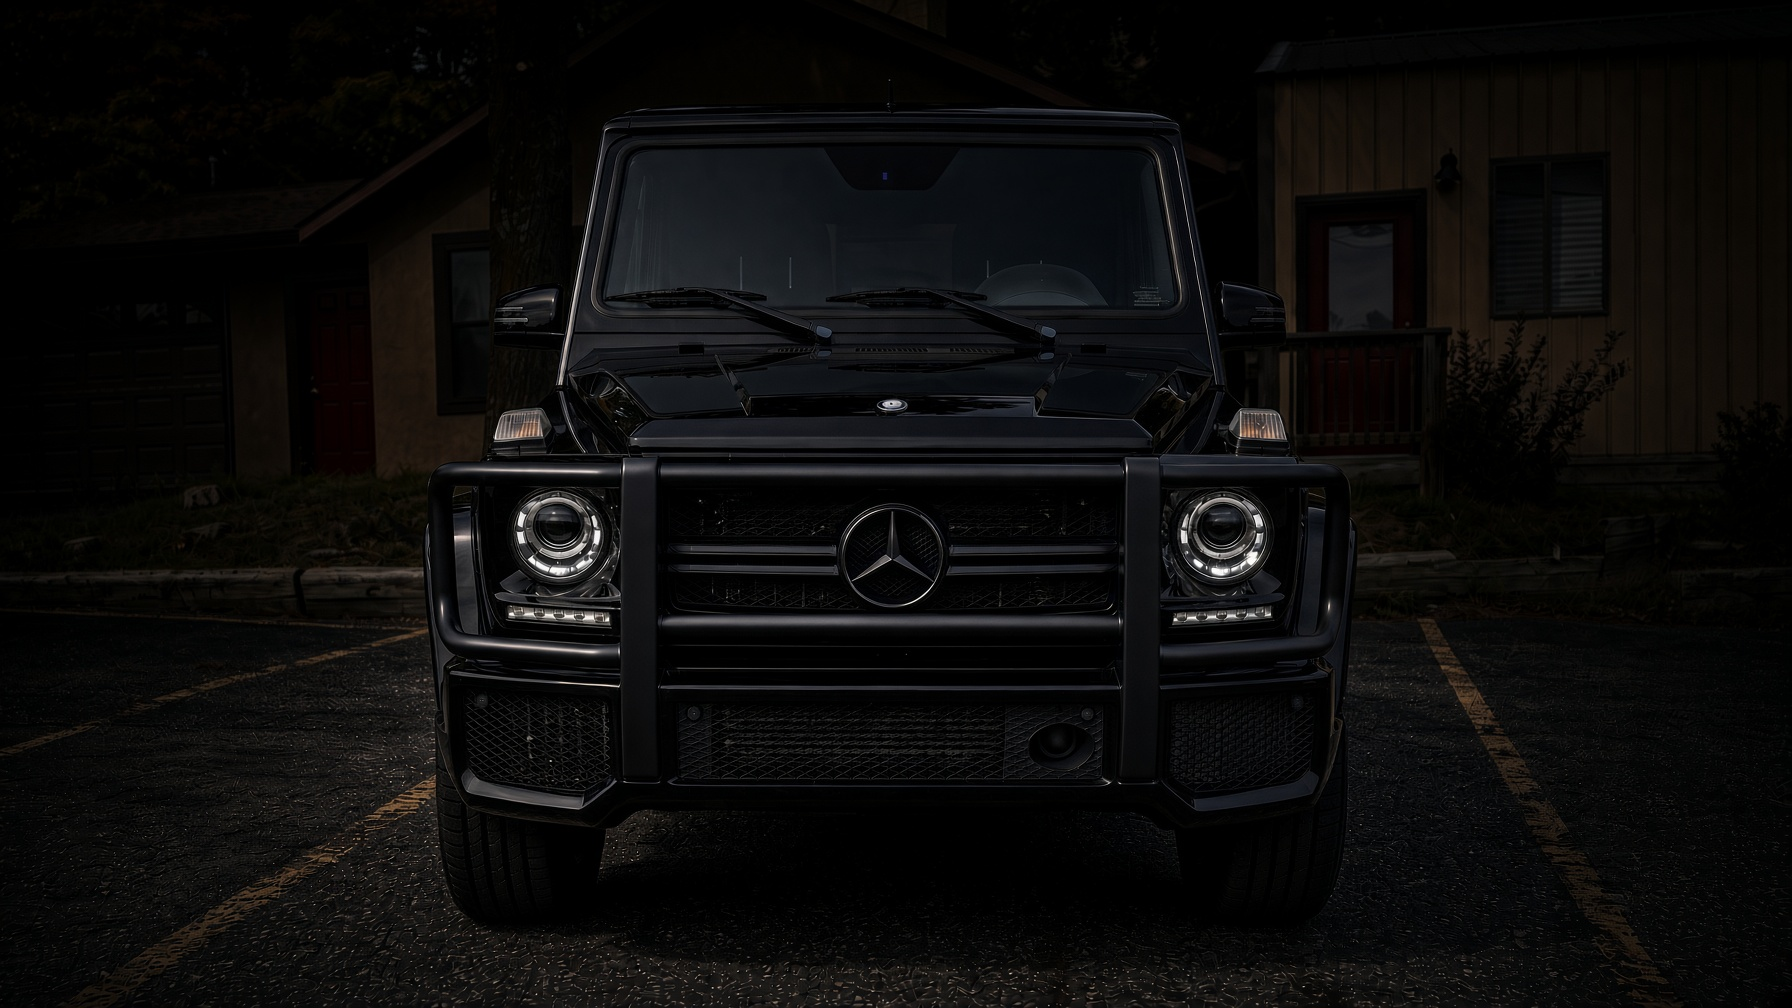
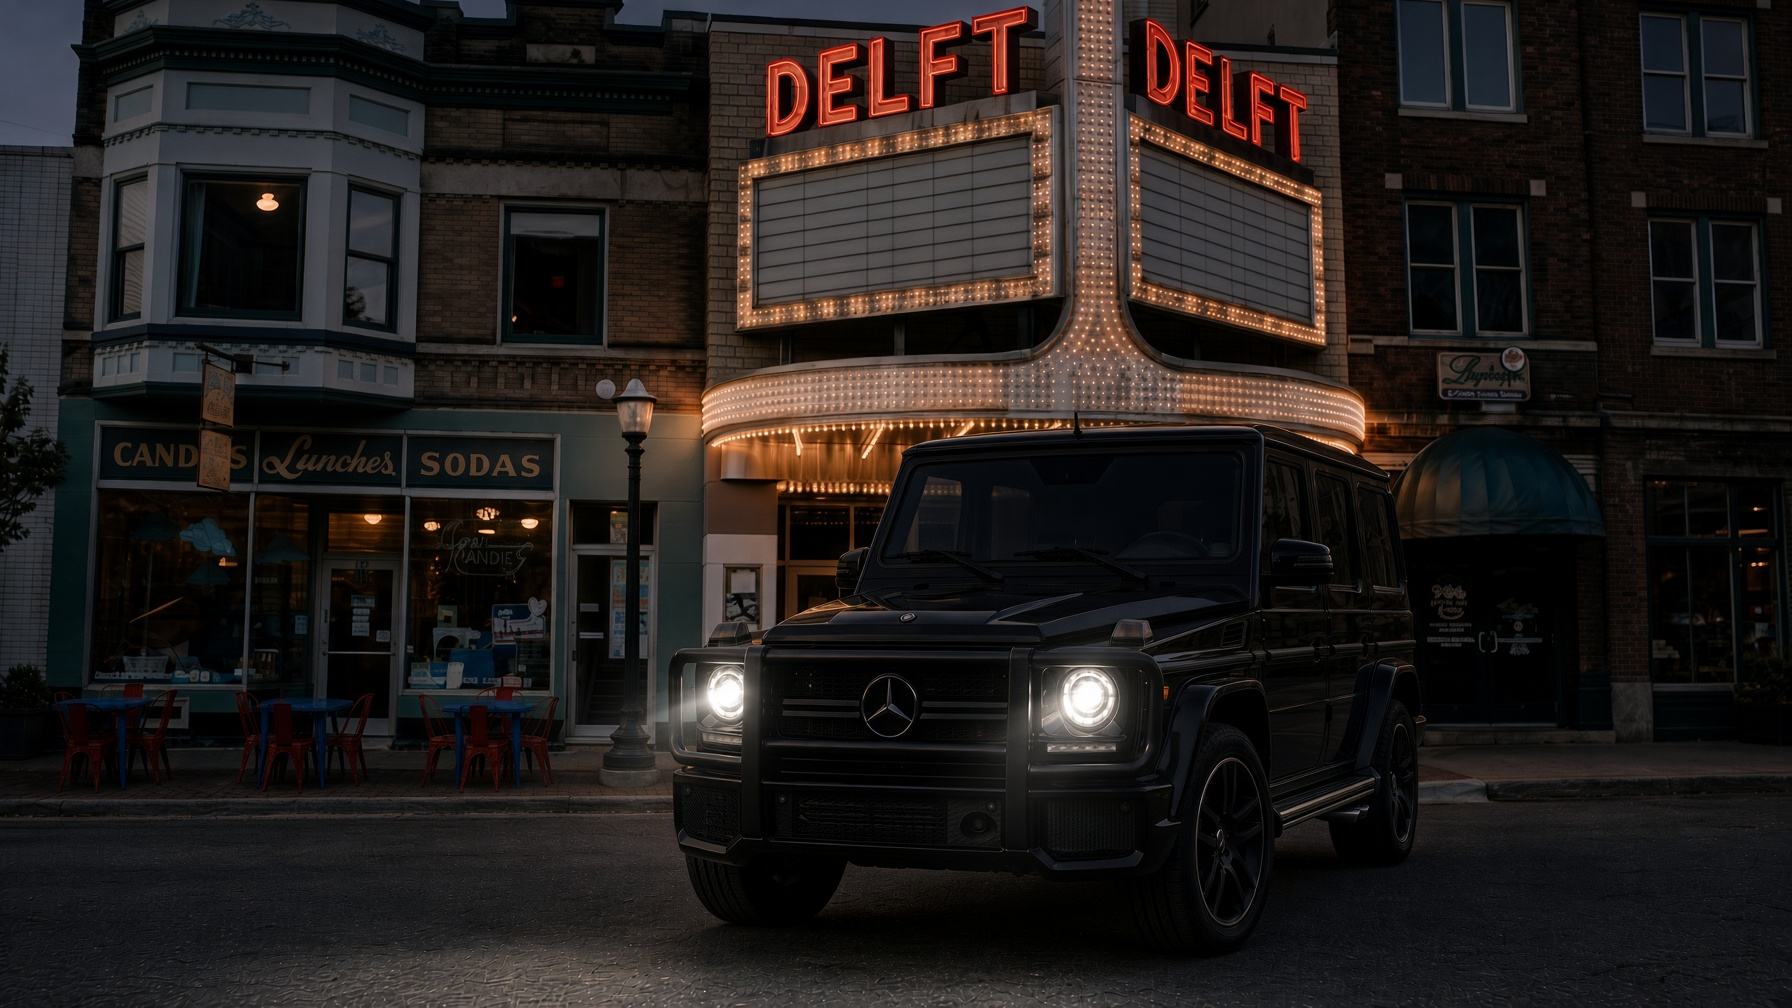
New hero: the G63 under the Delft marquee
Downtown Marquette, lights on, headlights lit — it says where the business
is without a word of copy doing it, which the studio-style front view could
not. Alt text names the landmark.

Also added an og:image, since this link's job is to be sent in a text or a
DM and it was previewing as a bare title.

diff --git a/index.html b/index.html
@@ -8,6 +8,8 @@
 <meta property="og:type" content="website">
 <meta property="og:title" content="ipullupmqt — Marquette, MI">
 <meta property="og:description" content="The G63 pulls up. Weddings, send-offs, shoots and content across the U.P.">
+<meta property="og:image" content="https://ringoshitoitsu1.github.io/ipullupmqt/images/hero.jpg">
+<meta name="twitter:card" content="summary_large_image">
 <link rel="preconnect" href="https://fonts.googleapis.com"><link rel="preconnect" href="https://fonts.gstatic.com" crossorigin>
 <link href="https://fonts.googleapis.com/css2?family=Big+Shoulders+Display:wght@500;700;800&family=Barlow:wght@400;500;600;700&display=swap" rel="stylesheet">
 <style>
@@ -130,7 +132,7 @@ footer .wrap{display:flex;flex-wrap:wrap;gap:12px;justify-content:space-between;
 </nav>
 
 <header class="hero">
-  <img class="hero-img" src="images/hero.jpg" alt="Blacked-out Mercedes-AMG G63, head-on at dusk" fetchpriority="high">
+  <img class="hero-img" src="images/hero.jpg" alt="Blacked-out Mercedes-AMG G63 parked under the Delft Theatre marquee in downtown Marquette at dusk" fetchpriority="high">
   <div class="hero-copy">
   <div class="wrap">
     <div class="eyebrow">Marquette &middot; Upper Peninsula</div>
